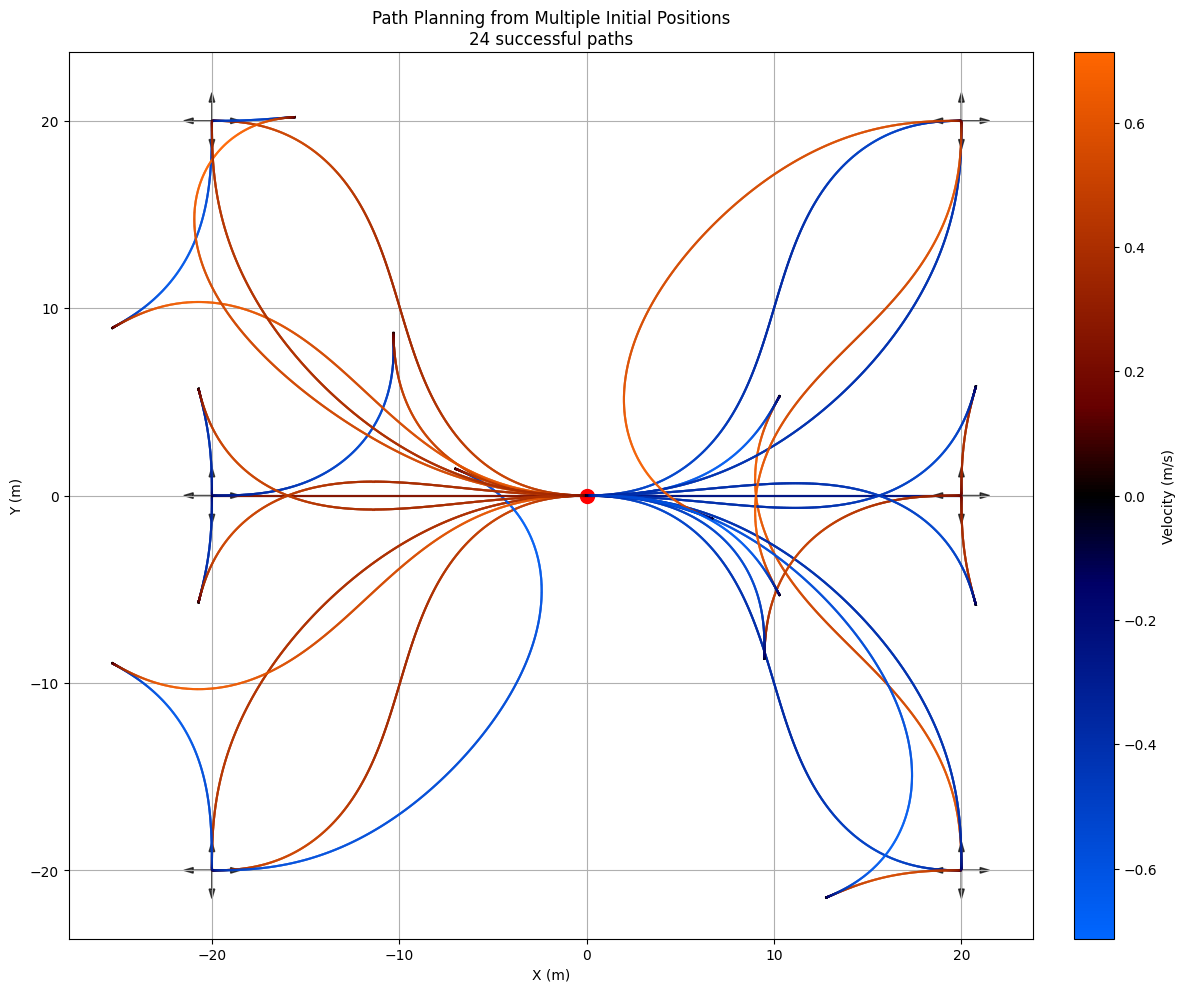
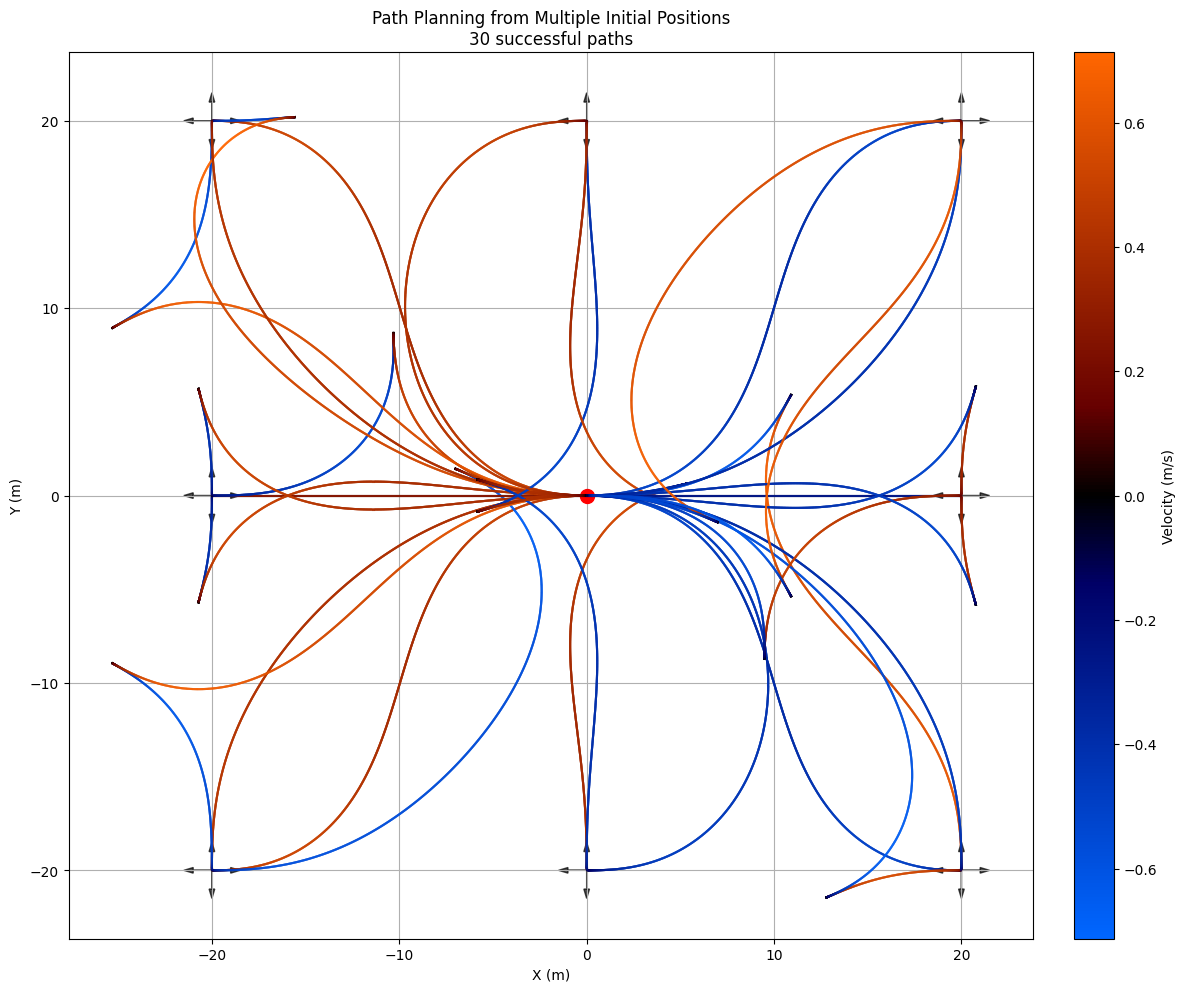
corridor calc updated.

diff --git a/utils/corridor.py b/utils/corridor.py
@@ -13,15 +13,17 @@ def corridor_cal(point_a: tuple, point_b: tuple, distance: float) -> tuple:
         distance (float): perpendicular distance from the center line to corridor boundary
         
     Returns:
-        tuple: (a1, b1, a2, b2) where:
+        tuple: (c1, a1, b1, c2, a2, b2) where:
             The corridor is defined by two inequalities:
-            1. y + a1*x + b1 > 0  (points above this line are above the upper boundary)
-            2. y + a2*x + b2 < 0  (points below this line are below the lower boundary)
+            1. c1*y + a1*x + b1 > 0  (points above this line are above the upper boundary)
+            2. c2*y + a2*x + b2 < 0  (points below this line are below the lower boundary)
             Points satisfying BOTH inequalities are inside the corridor.
             
+            All coefficients are normalized so that sqrt(c^2 + a^2) = 1 for each boundary.
+            
             In other words:
-            y = -a1*x - b1  defines the upper boundary line
-            y = -a2*x - b2  defines the lower boundary line
+            c1*y = -a1*x - b1  defines the upper boundary line
+            c2*y = -a2*x - b2  defines the lower boundary line
     """
     # Extract coordinates
     x1, y1 = point_a
@@ -39,55 +41,53 @@ def corridor_cal(point_a: tuple, point_b: tuple, distance: float) -> tuple:
     dx, dy = dx/length, dy/length
     
     # Calculate normal vector (rotate direction vector by 90 degrees)
-    nx = -dy
-    ny = dx
+    # This is already normalized since (dx, dy) was normalized
+    nx = -dy  # Normal vector x component
+    ny = dx   # Normal vector y component
     
-    # For nearly vertical lines, use vertical line handling
-    if abs(dx) < 1e-10:
-        return 1.0, -point_a[0] + distance, 1.0, -point_a[0] - distance
+    # The normal vector (nx, ny) is already normalized and gives us our coefficients
+    # For the line equation: nx*x + ny*y + d = 0
+    c = ny    # coefficient of y
+    a = nx    # coefficient of x
     
-    # Calculate line slope and intercept
-    m = dy/dx
+    # Calculate the offset for both boundaries using the normal vector
+    # The base offset is -(nx*x1 + ny*y1) which gives us distance from origin
+    base_offset = -(nx*x1 + ny*y1)
     
-    # Calculate parallel lines offset by distance
-    d_offset = distance * np.sqrt(1 + m**2)
+    # For upper boundary (c*y + a*x + b1 > 0)
+    b1 = base_offset + distance
     
-    # For upper boundary (y + a1*x + b1 > 0)
-    a1 = -m
-    b1 = y1 - m*x1 + d_offset
+    # For lower boundary (c*y + a*x + b2 < 0)
+    b2 = base_offset - distance
     
-    # For lower boundary (y + a2*x + b2 < 0)
-    a2 = -m
-    b2 = y1 - m*x1 - d_offset
-    
-    return a1, b1, a2, b2
+    return c, a, b1, c, a, b2
 
-def verify_point_in_corridor(point: tuple, a1: float, b1: float, a2: float, b2: float) -> bool:
+def verify_point_in_corridor(point: tuple, c1: float, a1: float, b1: float, c2: float, a2: float, b2: float) -> bool:
     """
     Verify if a point lies within the corridor.
     
     Args:
         point (tuple): (x, y) coordinates of the point to check
-        a1, b1, a2, b2 (float): Corridor parameters
+        c1, a1, b1, c2, a2, b2 (float): Normalized corridor parameters
         
     Returns:
         bool: True if point is inside corridor, False otherwise
     """
     x, y = point
-    upper_bound = y + a1*x + b1
-    lower_bound = y + a2*x + b2
+    upper_bound = c1*y + a1*x + b1
+    lower_bound = c2*y + a2*x + b2
     
     return upper_bound > 0 and lower_bound < 0
 
-def plot_corridor(point_a: tuple, point_b: tuple, a1: float, b1: float, a2: float, b2: float, distance: float):
+def plot_corridor(point_a: tuple, point_b: tuple, c1: float, a1: float, b1: float, c2: float, a2: float, b2: float, distance: float):
     """
     Visualize the corridor with test points.
     
     Args:
         point_a (tuple): Start point of the line segment
         point_b (tuple): End point of the line segment
-        a1, b1 (float): Parameters for upper boundary
-        a2, b2 (float): Parameters for lower boundary
+        c1, a1, b1 (float): Parameters for upper boundary
+        c2, a2, b2 (float): Parameters for lower boundary
         distance (float): Corridor width
     """
     # Create figure and axis
@@ -103,17 +103,44 @@ def plot_corridor(point_a: tuple, point_b: tuple, a1: float, b1: float, a2: floa
     y_min = min(point_a[1], point_b[1]) - margin
     y_max = max(point_a[1], point_b[1]) + margin
     
-    # Generate points for corridor boundaries
-    x = np.linspace(x_min, x_max, 100)
+    # Use a parametric approach to draw boundary lines
+    # This works for all line orientations (vertical, horizontal, diagonal)
+    t = np.linspace(-1, 2, 300)  # Parametric range covering the segment and beyond
     
-    # Plot corridor boundaries
-    y_upper = -a1 * x - b1
-    y_lower = -a2 * x - b2
+    # Calculate direction vector of the line
+    dx = point_b[0] - point_a[0]
+    dy = point_b[1] - point_a[1]
     
-    # Clip the corridor to a reasonable region around the line segment
-    mask = (x >= x_min) & (x <= x_max) & (y_upper >= y_min) & (y_upper <= y_max)
-    ax.plot(x[mask], y_upper[mask], 'r--', label='Upper Boundary')
-    ax.plot(x[mask], y_lower[mask], 'b--', label='Lower Boundary')
+    # Normalize
+    length = np.sqrt(dx**2 + dy**2)
+    dx, dy = dx/length, dy/length
+    
+    # Normal vector (perpendicular to direction)
+    nx, ny = -dy, dx
+    
+    # Generate boundary lines using parametric equations
+    # Line segment: point_a + t * (point_b - point_a), t ∈ [0,1]
+    # Extended to t ∈ [-1,2] to show more of the corridor
+    
+    # Points along the original line (extended)
+    line_x = point_a[0] + t * dx * length
+    line_y = point_a[1] + t * dy * length
+    
+    # Upper boundary
+    upper_x = line_x + nx * distance
+    upper_y = line_y + ny * distance
+    
+    # Lower boundary
+    lower_x = line_x - nx * distance
+    lower_y = line_y - ny * distance
+    
+    # Clip points to the visible area
+    mask_upper = (upper_x >= x_min) & (upper_x <= x_max) & (upper_y >= y_min) & (upper_y <= y_max)
+    mask_lower = (lower_x >= x_min) & (lower_x <= x_max) & (lower_y >= y_min) & (lower_y <= y_max)
+    
+    # Plot the boundary lines
+    ax.plot(upper_x[mask_upper], upper_y[mask_upper], 'r--', label='Upper Boundary')
+    ax.plot(lower_x[mask_lower], lower_y[mask_lower], 'b--', label='Lower Boundary')
     
     # Generate and plot test points
     np.random.seed(42)  # For reproducibility
@@ -123,7 +150,7 @@ def plot_corridor(point_a: tuple, point_b: tuple, a1: float, b1: float, a2: floa
     
     for x_test, y_test in zip(x_range, y_range):
         point = (x_test, y_test)
-        is_inside = verify_point_in_corridor(point, a1, b1, a2, b2)
+        is_inside = verify_point_in_corridor(point, c1, a1, b1, c2, a2, b2)
         ax.scatter(x_test, y_test, 
                   color='green' if is_inside else 'red',
                   alpha=0.6,
@@ -154,22 +181,54 @@ def plot_corridor(point_a: tuple, point_b: tuple, a1: float, b1: float, a2: floa
     return fig, ax
 
 if __name__ == "__main__":
-    # Example usage
-    point_a = (0, 0)
-    point_b = (10, 10)
+    # Test Case 1: Diagonal line
+    point_a_diagonal = (0, 0)
+    point_b_diagonal = (10, 10)
     distance = 2.0
     
-    a1, b1, a2, b2 = corridor_cal(point_a, point_b, distance)
-    print(f"Corridor parameters:")
-    print(f"Upper boundary: y + {a1:.3f}x + {b1:.3f} > 0")
-    print(f"Lower boundary: y + {a2:.3f}x + {b2:.3f} < 0")
+    c1, a1, b1, c2, a2, b2 = corridor_cal(point_a_diagonal, point_b_diagonal, distance)
+    print(f"\nDiagonal corridor parameters:")
+    print(f"Upper boundary: {c1:.3f}y + {a1:.3f}x + {b1:.3f} > 0")
+    print(f"Lower boundary: {c2:.3f}y + {a2:.3f}x + {b2:.3f} < 0")
     
-    # Create visualization
-    fig, ax = plot_corridor(point_a, point_b, a1, b1, a2, b2, distance)
-    plt.show()
+    # Create visualization for diagonal case
+    fig1, ax1 = plot_corridor(point_a_diagonal, point_b_diagonal, c1, a1, b1, c2, a2, b2, distance)
+    ax1.set_title('Corridor Visualization - Diagonal Line')
+    # fig1.savefig('utils/corridor_diagonal.png', dpi=300, bbox_inches='tight')
     
-    # Test some specific points
-    test_points = [(5, 5), (5, 7), (5, 3)]
-    for point in test_points:
-        is_inside = verify_point_in_corridor(point, a1, b1, a2, b2)
-        print(f"Test point {point} is {'inside' if is_inside else 'outside'} the corridor") 
+    # Test Case 2: Horizontal line
+    point_a_horizontal = (0, 5)
+    point_b_horizontal = (10, 5)
+    
+    c1, a1, b1, c2, a2, b2 = corridor_cal(point_a_horizontal, point_b_horizontal, distance)
+    print(f"\nHorizontal corridor parameters:")
+    print(f"Upper boundary: {c1:.3f}y + {a1:.3f}x + {b1:.3f} > 0")
+    print(f"Lower boundary: {c2:.3f}y + {a2:.3f}x + {b2:.3f} < 0")
+    
+    # Create visualization for horizontal case
+    fig2, ax2 = plot_corridor(point_a_horizontal, point_b_horizontal, c1, a1, b1, c2, a2, b2, distance)
+    ax2.set_title('Corridor Visualization - Horizontal Line')
+    # fig2.savefig('utils/corridor_horizontal.png', dpi=300, bbox_inches='tight')
+    
+    # Test Case 3: Vertical line
+    point_a_vertical = (5, 0)
+    point_b_vertical = (5, 10)
+    
+    c1, a1, b1, c2, a2, b2 = corridor_cal(point_a_vertical, point_b_vertical, distance)
+    print(f"\nVertical corridor parameters:")
+    print(f"Upper boundary: {c1:.3f}y + {a1:.3f}x + {b1:.3f} > 0")
+    print(f"Lower boundary: {c2:.3f}y + {a2:.3f}x + {b2:.3f} < 0")
+    
+    # Create visualization for vertical case
+    fig3, ax3 = plot_corridor(point_a_vertical, point_b_vertical, c1, a1, b1, c2, a2, b2, distance)
+    ax3.set_title('Corridor Visualization - Vertical Line')
+    # fig3.savefig('utils/corridor_vertical.png', dpi=300, bbox_inches='tight')
+    
+    # Test some specific points for each case
+    test_points_diagonal = [(5, 5), (5, 7), (5, 3)]
+    print("\nTesting diagonal corridor:")
+    for point in test_points_diagonal:
+        is_inside = verify_point_in_corridor(point, c1, a1, b1, c2, a2, b2)
+        print(f"Test point {point} is {'inside' if is_inside else 'outside'} the corridor")
+    
+    plt.show() 

diff --git a/src/plots.py b/src/plots.py
@@ -44,21 +44,42 @@ def plot_results(results, ego, save_path=None, show_xy_plot=False):
         # Calculate and plot corridor
         point_a = (ego.state_start[0], ego.state_start[1])
         point_b = (ego.state_final[0], ego.state_final[1])
-        a1, b1, a2, b2 = corridor_cal(point_a, point_b, ego.corridor_width)
+        c1, a1, b1, c2, a2, b2 = corridor_cal(point_a, point_b, ego.corridor_width)
         
         # Calculate plot bounds with margin
         margin = ego.corridor_width * 2
         x_min = min(point_a[0], point_b[0]) - margin
         x_max = max(point_a[0], point_b[0]) + margin
         
-        # Generate points for corridor boundaries
-        x_corridor = np.linspace(x_min, x_max, 100)
-        y_upper = -a1 * x_corridor - b1
-        y_lower = -a2 * x_corridor - b2
+        # Use parametric approach to draw boundary lines
+        t = np.linspace(-1, 2, 100)  # Parametric range covering the segment and beyond
+        
+        # Calculate direction vector of the line
+        dx = point_b[0] - point_a[0]
+        dy = point_b[1] - point_a[1]
+        
+        # Normalize
+        length = np.sqrt(dx**2 + dy**2)
+        dx, dy = dx/length, dy/length
+        
+        # Normal vector (perpendicular to direction)
+        nx, ny = -dy, dx
+        
+        # Points along the original line (extended)
+        line_x = point_a[0] + t * dx * length
+        line_y = point_a[1] + t * dy * length
+        
+        # Upper boundary
+        upper_x = line_x + nx * ego.corridor_width
+        upper_y = line_y + ny * ego.corridor_width
+        
+        # Lower boundary
+        lower_x = line_x - nx * ego.corridor_width
+        lower_y = line_y - ny * ego.corridor_width
         
         # Plot corridor boundaries
-        ax.plot(x_corridor, y_upper, 'r--', alpha=0.3, label='corridor')
-        ax.plot(x_corridor, y_lower, 'r--', alpha=0.3)
+        ax.plot(upper_x, upper_y, 'r--', alpha=0.3, label='corridor')
+        ax.plot(lower_x, lower_y, 'r--', alpha=0.3)
         
         ax.grid(True)
         ax.legend(bbox_to_anchor=(1.15, 1), loc='upper left')

diff --git a/src/core_solver.py b/src/core_solver.py
@@ -301,24 +301,24 @@ def generate_controls(ego, sim_cfg):
     # Calculate corridor constraints
     point_a = (ego.state_start[0], ego.state_start[1])  # (x, y) of start
     point_b = (ego.state_final[0], ego.state_final[1])  # (x, y) of end
-    a1, b1, a2, b2 = corridor_cal(point_a, point_b, ego.corridor_width)
+    c1, a1, b1, c2, a2, b2 = corridor_cal(point_a, point_b, ego.corridor_width)
     
     # Add corridor constraints as linear constraints
     # Original constraints are: 
-    # y + a1*x + b1 > 0  ->  -y - a1*x <= b1
-    # y + a2*x + b2 < 0  ->   y + a2*x <= -b2
+    # c1*y + a1*x + b1 > 0  ->  -c1*y - a1*x <= b1
+    # c2*y + a2*x + b2 < 0  ->   c2*y + a2*x <= -b2
     
     # Set up linear constraints: C*x + D*u <= ug
     ocp.dims.ng = 2  # Two linear constraints
     
     # Define constraint matrices
     C = np.zeros((2, nx))
-    # First row: -y - a1*x <= b1
+    # First row: -c1*y - a1*x <= b1
     C[0, 0] = float(-a1)  # x coefficient
-    C[0, 1] = -1.0        # y coefficient
-    # Second row: y + a2*x <= -b2
+    C[0, 1] = float(-c1)  # y coefficient
+    # Second row: c2*y + a2*x <= -b2
     C[1, 0] = float(a2)   # x coefficient
-    C[1, 1] = 1.0         # y coefficient
+    C[1, 1] = float(c2)   # y coefficient
     
     # No control input in constraints
     D = np.zeros((2, nu))

diff --git a/src/path_finder.py b/src/path_finder.py
@@ -113,8 +113,8 @@ if __name__ == "__main__":
     ego = EgoConfig()
     # Now we can directly set angles without explicit normalization
     # The EgoConfig class will handle normalization internally
-    ego.state_start = [0, 0, 0, 0, 0]  # 2π will be normalized to 0
-    ego.state_final = [30, 30, np.pi/2, 0, 0]
+    ego.state_start = [0, 0, 0*np.pi/2, 0, 0]  # 2π will be normalized to 0
+    ego.state_final = [20, 30, 1*np.pi/2, 0, 0]
     ego.corridor_width = 2.0
     
     # Clean up any existing Acados files
